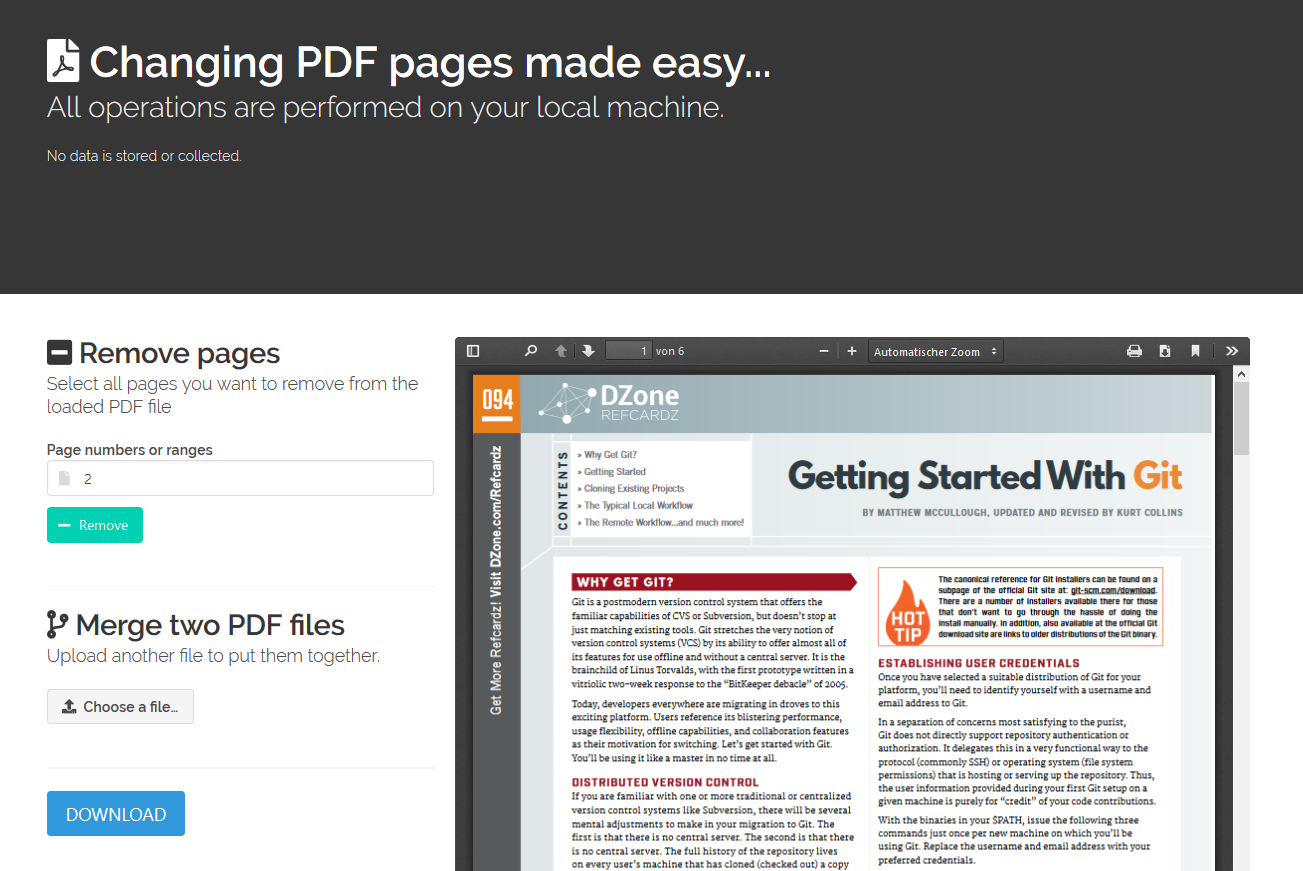
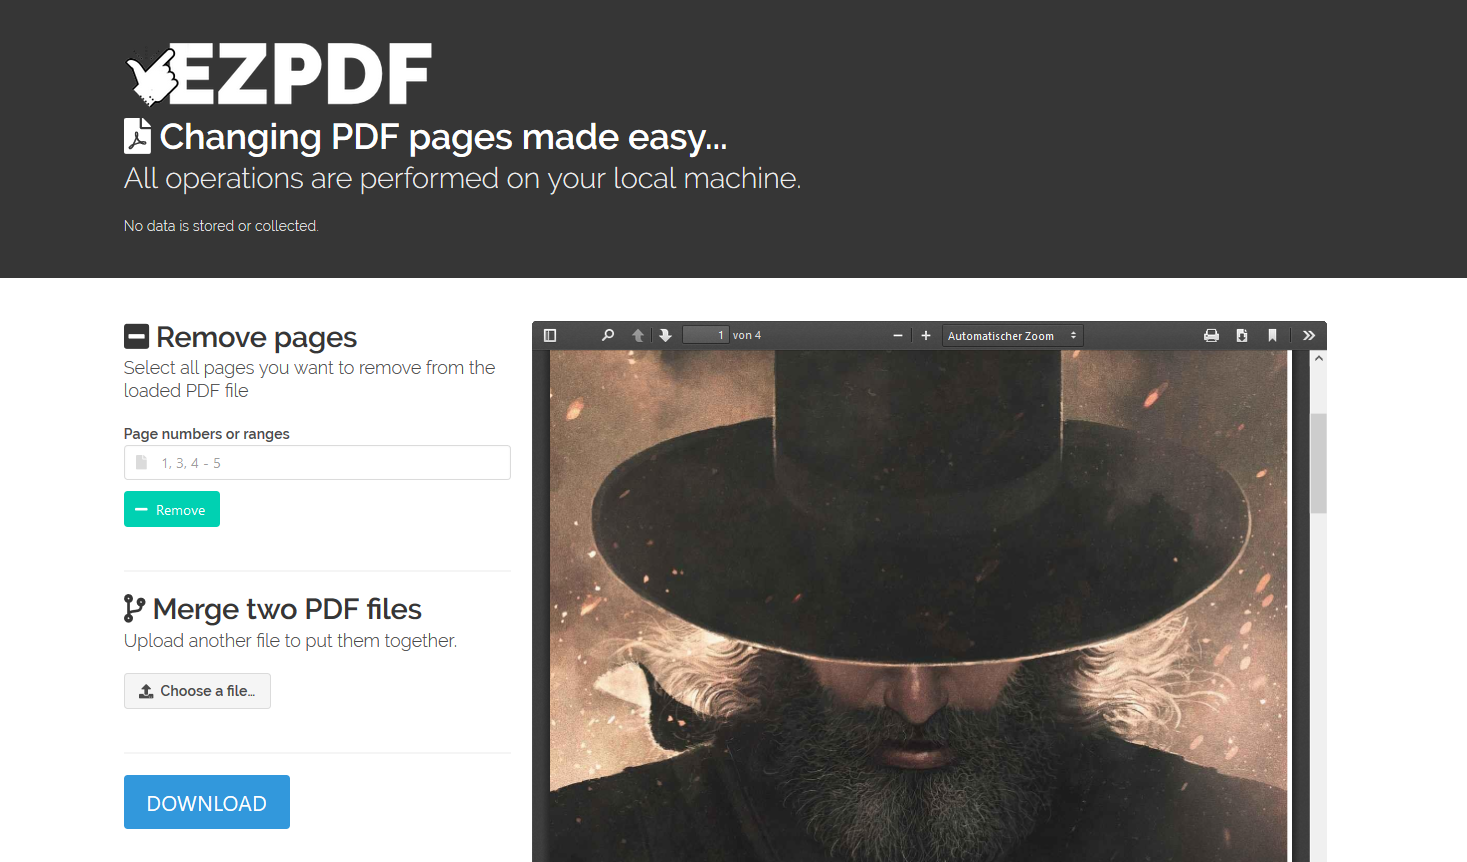
Some layout changes

diff --git a/src/index.html b/src/index.html
@@ -6,6 +6,8 @@
     <meta name="viewport" content="width=device-width, initial-scale=1">
     <title>EZ PDF</title>
 
+    <link rel="icon" type="image/png" href="imgs/favicon.png" />
+
     <link rel="stylesheet" href="https://cdn.jsdelivr.net/combine/npm/bulma@0.8.1/css/bulma.min.css,npm/bulma@0.8.1/css/bulma.min.css">
     <link href="https://fonts.googleapis.com/css2?family=Raleway:wght@100;300;600;900&display=swap" rel="stylesheet">
 
@@ -15,15 +17,16 @@
     <script src="https://cdn.jsdelivr.net/npm/pdf-lib@1.4.1/dist/pdf-lib.min.js"></script>
     <script src="https://npmcdn.com/smoothscroll-polyfill@0.3.3/dist/smoothscroll.js"></script>
 
-    <script defer src="ezpdf-core.js"></script>
+    <script defer src="ezpdf.js"></script>
     <script defer src="index.js"></script>
 </head>
 
 <body>
-    <section class="hero is-dark is-medium">
+    <section class="hero is-dark">
         <div class="hero-body">
             <div class="container">
-                <h1 class="title is-1"><i class="fas fa-file-pdf"></i> Changing PDF pages made easy...</h1>
+                <img src="imgs/logo_light.png" style="height: 50%;">
+                <h1 class="title is-2"><i class="fas fa-file-pdf"></i> Changing PDF pages made easy...</h1>
                 <h2 class="subtitle is-3">All operations are performed on your local machine.</h2>
                 <h3 class="subtitle is-6">No data is stored or collected.</h3>
             </div>
@@ -159,7 +162,6 @@
             </div>
         </section>
     </main>
-
 
     <footer class="footer">
         <div class="content has-text-centered">

diff --git a/README.md b/README.md
@@ -1,12 +1,20 @@
+<p align="center">
+  <img src="https://raw.githubusercontent.com/Milchreis/ezpdf/master/src/imgs/logo.png" alt="logo" />
+</p>
+
 # ezpdf - Changing PDF pages made easy
-> I developed ezpdf to make simple changes to PDF files without having to install software, use expensive tools like Acrobat Pro or upload files to unknown services. Now you can also use it 😊
+> I developed *ezpdf* to make simple changes to PDF files without having to install software, use expensive tools like Acrobat Pro or upload files to unknown services. Now you can also use it 😊
+
+You can use EZPDF directly from the [github repo online](https://milchreis.github.io/ezpdf/src/index.html) or download/clone the project and open the index.html in your favorite browser (please not the old IE's 😛).
 
 ![alt screenshot](https://raw.githubusercontent.com/Milchreis/ezpdf/master/screenshot.png)
 
 🔗 **[Use it here](https://milchreis.github.io/ezpdf/src/index.html)**
 
 ## Features
- * Security: runs completely in browser on client side (Your pdf files never leave your PC)
+ * Security: 
+    * runs completely in browser on client side (Your pdf files never leave your PC)
+    * no tracking, no ads
  * No installation needed
  * Remove pages from PDF files (comma separated or as range)
  * Merge pages from another PDF file to the current working file
